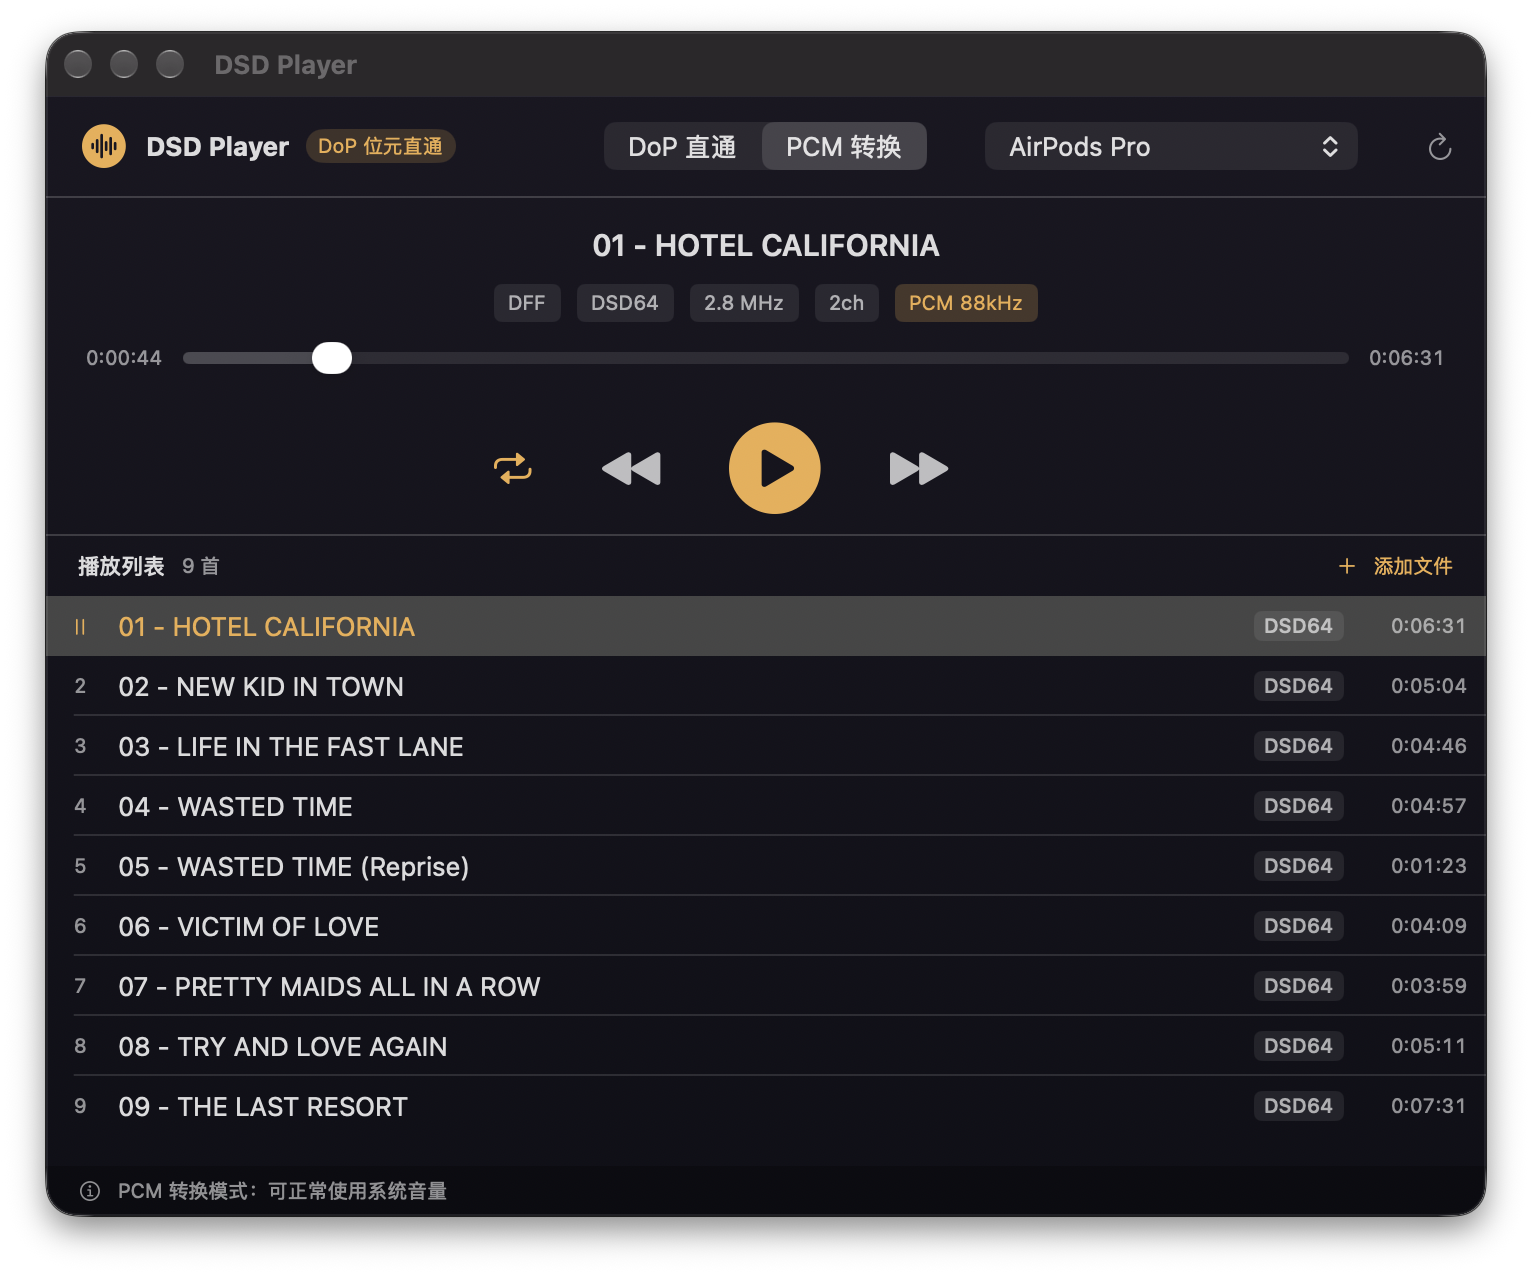
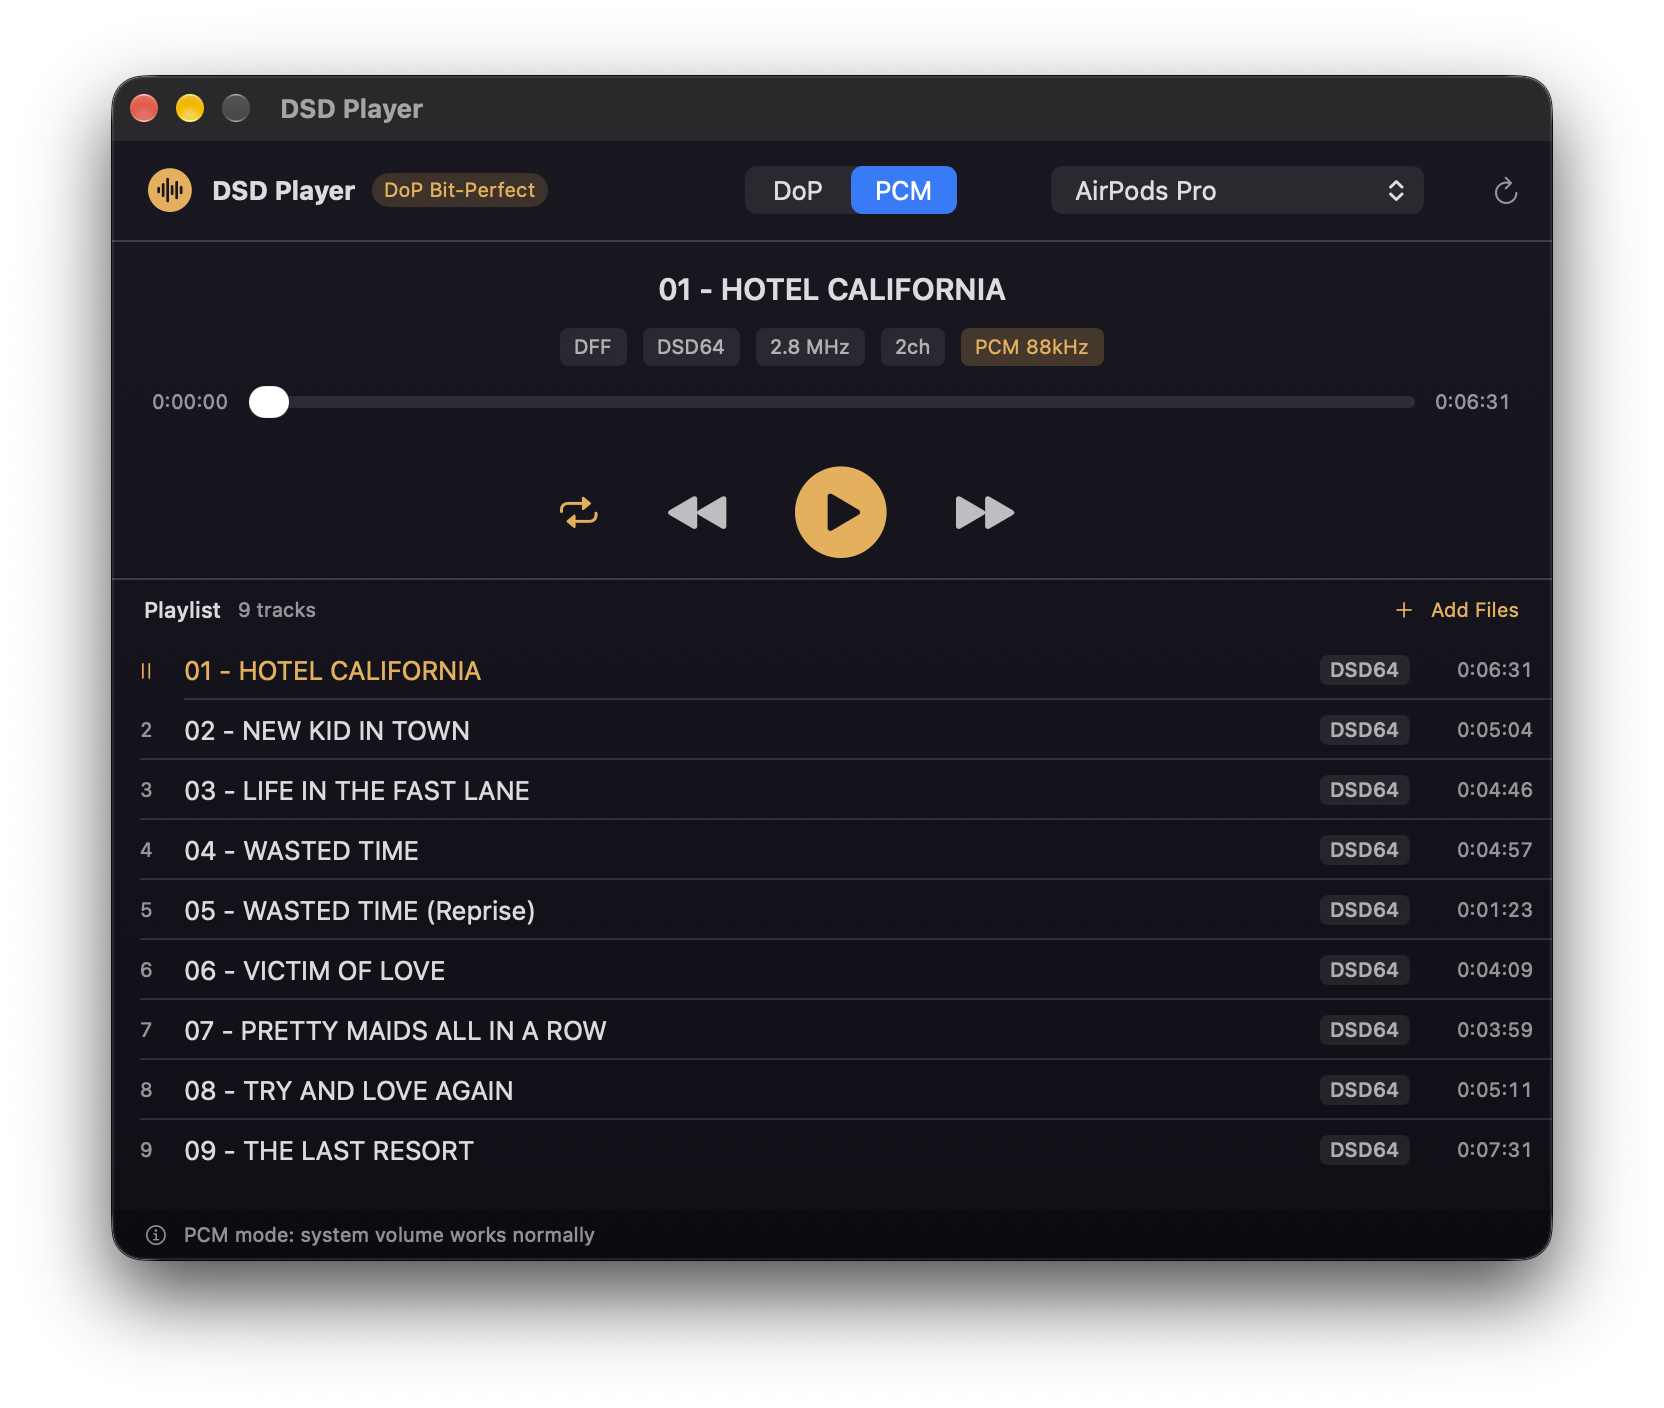
界面英文化，README 截图更新为英文界面

diff --git a/Sources/DSDPlayer/DSDPlayerApp.swift b/Sources/DSDPlayer/DSDPlayerApp.swift
@@ -21,10 +21,10 @@ enum PlayMode: Int, CaseIterable {
     }
     var label: String {
         switch self {
-        case .sequential: return "顺序播放"
-        case .loopAll: return "列表循环"
-        case .loopOne: return "单曲循环"
-        case .shuffle: return "随机播放"
+        case .sequential: return "Sequential"
+        case .loopAll: return "Loop All"
+        case .loopOne: return "Repeat One"
+        case .shuffle: return "Shuffle"
         }
     }
     func next() -> PlayMode {
@@ -106,7 +106,7 @@ final class PlayerModel: ObservableObject {
         }
         playlist = items
         if missing > 0 {
-            statusMessage = "\(missing) 个文件已移动或删除，未恢复"
+            statusMessage = "\(missing) file(s) moved or deleted, not restored"
         }
         if let idx = saved.currentIndex, playlist.indices.contains(idx) {
             load(at: idx)
@@ -246,7 +246,7 @@ final class PlayerModel: ObservableObject {
         let dffType = UTType(filenameExtension: "dff") ?? .data
         panel.allowedContentTypes = [dsfType, dffType]
         panel.allowsMultipleSelection = true
-        panel.message = "选择 DSD 音频文件 (.dsf / .dff)，可多选"
+        panel.message = "Choose DSD audio files (.dsf / .dff) — multiple selection allowed"
         guard panel.runModal() == .OK else { return }
         add(urls: panel.urls)
     }
@@ -284,7 +284,7 @@ final class PlayerModel: ObservableObject {
         }
         playlist.append(contentsOf: added)
         if !failures.isEmpty {
-            statusMessage = "无法解析: \(failures.joined(separator: ", "))"
+            statusMessage = "Cannot parse: \(failures.joined(separator: ", "))"
         }
         // 首个文件加入后自动加载（不自动播放）
         if currentIndex == nil, let first = added.first,
@@ -327,7 +327,7 @@ final class PlayerModel: ObservableObject {
 
     func play(at index: Int) {
         guard let dev = selectedDevice else {
-            statusMessage = "请选择输出设备"
+            statusMessage = "Select an output device"
             return
         }
         load(at: index)
@@ -474,7 +474,7 @@ struct ContentView: View {
                 .foregroundStyle(accent)
             Text("DSD Player")
                 .font(.headline)
-            Text("DoP 位元直通")
+            Text("DoP Bit-Perfect")
                 .font(.caption)
                 .padding(.horizontal, 6).padding(.vertical, 2)
                 .background(accent.opacity(0.18))
@@ -484,13 +484,13 @@ struct ContentView: View {
             Picker("", selection: Binding(
                 get: { model.outputMode },
                 set: { model.setOutputMode($0) })) {
-                Text("DoP 直通").tag(OutputMode.dop)
-                Text("PCM 转换").tag(OutputMode.pcm)
+                Text("DoP").tag(OutputMode.dop)
+                Text("PCM").tag(OutputMode.pcm)
             }
             .labelsHidden()
             .pickerStyle(.segmented)
-            .frame(width: 150)
-            .help("DoP：位元直通给支持 DoP 的 DAC；PCM：转成高采样率 PCM，任意设备可用")
+            .frame(width: 130)
+            .help("DoP: bit-perfect to DoP-capable DACs; PCM: convert to hi-res PCM, works on any device")
             Picker("", selection: $model.selectedDevice) {
                 ForEach(model.devices) { dev in
                     Text(dev.name + (dev.isUSB ? " ⚡" : "")).tag(Optional(dev))
@@ -502,7 +502,7 @@ struct ContentView: View {
                 Image(systemName: "arrow.clockwise")
             }
             .buttonStyle(.borderless)
-            .help("刷新设备列表")
+            .help("Refresh device list")
         }
         .padding(.horizontal, 16).padding(.vertical, 12)
     }
@@ -510,7 +510,7 @@ struct ContentView: View {
     // 当前曲目信息
     private var nowPlaying: some View {
         VStack(spacing: 10) {
-            Text(model.currentItem?.title ?? "未加载曲目")
+            Text(model.currentItem?.title ?? "No Track Loaded")
                 .font(.title3.weight(.semibold))
                 .lineLimit(1).truncationMode(.middle)
                 .foregroundStyle(model.currentItem == nil ? .secondary : .primary)
@@ -527,7 +527,7 @@ struct ContentView: View {
                           highlight: true)
                 }
             } else {
-                Text("添加 .dsf / .dff 文件开始播放")
+                Text("Add .dsf / .dff files to start playing")
                     .font(.caption).foregroundStyle(.secondary)
             }
 
@@ -560,7 +560,7 @@ struct ContentView: View {
                             help: model.playMode.label) {
                 model.playMode = model.playMode.next()
             }
-            transportButton("backward.fill", size: 22, help: "上一首 (⌘←)") { model.previous() }
+            transportButton("backward.fill", size: 22, help: "Previous (⌘←)") { model.previous() }
                 .keyboardShortcut(.leftArrow, modifiers: .command)
             Button { model.togglePlay() } label: {
                 Image(systemName: model.state == .playing ? "pause.circle.fill" : "play.circle.fill")
@@ -570,7 +570,7 @@ struct ContentView: View {
             .buttonStyle(.borderless)
             .disabled(model.playlist.isEmpty)
             .keyboardShortcut(.space, modifiers: [])
-            transportButton("forward.fill", size: 22, help: "下一首 (⌘→)") { model.next() }
+            transportButton("forward.fill", size: 22, help: "Next (⌘→)") { model.next() }
                 .keyboardShortcut(.rightArrow, modifiers: .command)
             // 占位平衡布局
             Image(systemName: model.playMode.icon)
@@ -599,13 +599,13 @@ struct ContentView: View {
     private var playlistView: some View {
         VStack(spacing: 0) {
             HStack {
-                Text("播放列表")
+                Text("Playlist")
                     .font(.subheadline.weight(.medium))
-                Text("\(model.playlist.count) 首")
+                Text("\(model.playlist.count) tracks")
                     .font(.caption).foregroundStyle(.secondary)
                 Spacer()
                 Button { model.addFiles() } label: {
-                    Label("添加文件", systemImage: "plus")
+                    Label("Add Files", systemImage: "plus")
                         .font(.caption)
                 }
                 .buttonStyle(.borderless)
@@ -618,7 +618,7 @@ struct ContentView: View {
                     Image(systemName: "music.note.list")
                         .font(.system(size: 30))
                         .foregroundStyle(.secondary)
-                    Text("拖入文件或文件夹，或点击「添加文件」")
+                    Text("Drop files or folders here, or click Add Files")
                         .font(.caption).foregroundStyle(.secondary)
                 }
                 .frame(maxWidth: .infinity, maxHeight: .infinity)
@@ -628,7 +628,7 @@ struct ContentView: View {
                         playlistRow(idx: idx, item: item)
                             .tag(item.id)
                             .contextMenu {
-                                Button("移除") {
+                                Button("Remove") {
                                     if let i = model.playlist.firstIndex(of: item) {
                                         model.remove(at: IndexSet(integer: i))
                                     }
@@ -692,14 +692,14 @@ struct ContentView: View {
             } else if !model.deviceSupportsCarrier {
                 Image(systemName: "exclamationmark.triangle.fill")
                     .foregroundStyle(.orange)
-                Text("该设备可能不支持所需的 DoP 载波采样率")
+                Text("This device may not support the required DoP carrier rate")
                     .foregroundStyle(.orange)
             } else {
                 Image(systemName: "info.circle")
                     .foregroundStyle(.secondary)
                 Text(model.outputMode == .dop
-                     ? "播放期间请勿调节系统音量（会破坏 DoP 位元），请用 DAC/功放调音量"
-                     : "PCM 转换模式：可正常使用系统音量")
+                     ? "DoP is bit-perfect: don't change system volume while playing — use DAC/amp volume"
+                     : "PCM mode: system volume works normally")
                     .foregroundStyle(.secondary)
             }
             Spacer()

diff --git a/Sources/DSDPlayer/PlaybackEngine.swift b/Sources/DSDPlayer/PlaybackEngine.swift
@@ -152,7 +152,7 @@ final class PlaybackEngine: @unchecked Sendable {
         }
 
         let err = AudioOutputUnitStart(audioUnit!)
-        guard err == noErr else { throw DSDError.corruptFile("启动音频输出失败 (\(err))") }
+        guard err == noErr else { throw DSDError.corruptFile("Failed to start audio output (\(err))") }
         state = .playing
     }
 
@@ -277,12 +277,12 @@ final class PlaybackEngine: @unchecked Sendable {
             componentManufacturer: kAudioUnitManufacturer_Apple,
             componentFlags: 0, componentFlagsMask: 0)
         guard let comp = AudioComponentFindNext(nil, &desc) else {
-            throw DSDError.corruptFile("找不到音频输出组件")
+            throw DSDError.corruptFile("Audio output component not found")
         }
         var au: AudioUnit?
         var err = AudioComponentInstanceNew(comp, &au)
         guard err == noErr, let unit = au else {
-            throw DSDError.corruptFile("创建音频单元失败 (\(err))")
+            throw DSDError.corruptFile("Failed to create audio unit (\(err))")
         }
 
         var dev = device
@@ -291,7 +291,7 @@ final class PlaybackEngine: @unchecked Sendable {
                                    UInt32(MemoryLayout<AudioDeviceID>.size))
         guard err == noErr else {
             AudioComponentInstanceDispose(unit)
-            throw DSDError.corruptFile("绑定输出设备失败 (\(err))")
+            throw DSDError.corruptFile("Failed to bind output device (\(err))")
         }
 
         // 应用侧格式：交错 Int32，24-bit DoP 左对齐进 32-bit 容器
@@ -310,7 +310,7 @@ final class PlaybackEngine: @unchecked Sendable {
                                    UInt32(MemoryLayout<AudioStreamBasicDescription>.size))
         guard err == noErr else {
             AudioComponentInstanceDispose(unit)
-            throw DSDError.corruptFile("设置输出格式失败 (\(err))")
+            throw DSDError.corruptFile("Failed to set output format (\(err))")
         }
 
         var callback = AURenderCallbackStruct(
@@ -321,13 +321,13 @@ final class PlaybackEngine: @unchecked Sendable {
                                    UInt32(MemoryLayout<AURenderCallbackStruct>.size))
         guard err == noErr else {
             AudioComponentInstanceDispose(unit)
-            throw DSDError.corruptFile("注册渲染回调失败 (\(err))")
+            throw DSDError.corruptFile("Failed to register render callback (\(err))")
         }
 
         err = AudioUnitInitialize(unit)
         guard err == noErr else {
             AudioComponentInstanceDispose(unit)
-            throw DSDError.corruptFile("初始化音频单元失败 (\(err))")
+            throw DSDError.corruptFile("Failed to initialize audio unit (\(err))")
         }
         audioUnit = unit
     }
@@ -472,7 +472,7 @@ final class PlaybackEngine: @unchecked Sendable {
             } catch {
                 feederLock.unlock()
                 let cb = onError
-                DispatchQueue.main.async { cb?("读取文件失败: \(error.localizedDescription)") }
+                DispatchQueue.main.async { cb?("Failed to read file: \(error.localizedDescription)") }
                 return
             }
         }

diff --git a/Sources/DSDPlayer/DSDFile.swift b/Sources/DSDPlayer/DSDFile.swift
@@ -9,11 +9,11 @@ enum DSDError: Error, LocalizedError {
 
     var errorDescription: String? {
         switch self {
-        case .unsupportedFormat(let s): return "不支持的文件格式: \(s)"
-        case .corruptFile(let s): return "文件损坏或无法解析: \(s)"
-        case .unsupportedChannels(let n): return "暂不支持 \(n) 声道（仅支持单声道/立体声）"
-        case .unsupportedSampleRate(let r): return "不支持的 DSD 采样率: \(r) Hz"
-        case .dstCompressed: return "暂不支持 DST 压缩的 DFF 文件"
+        case .unsupportedFormat(let s): return "Unsupported file format: \(s)"
+        case .corruptFile(let s): return "File is corrupt or unparseable: \(s)"
+        case .unsupportedChannels(let n): return "\(n) channels not supported (mono/stereo only)"
+        case .unsupportedSampleRate(let r): return "Unsupported DSD sample rate: \(r) Hz"
+        case .dstCompressed: return "DST-compressed DFF files are not supported"
         }
     }
 }

diff --git a/Sources/DSDPlayer/AudioDevice.swift b/Sources/DSDPlayer/AudioDevice.swift
@@ -19,9 +19,9 @@ enum AudioDeviceError: Error, LocalizedError {
     var errorDescription: String? {
         switch self {
         case .noSupportedFormat(let r):
-            return "所选设备不支持 \(Int(r)) Hz / 24bit 以上的输出格式，无法承载该 DoP 流"
+            return "Device doesn't support \(Int(r)) Hz / 24-bit+ output required for this DoP stream"
         case .setRateFailed(let s):
-            return "设置设备采样率失败 (OSStatus \(s))"
+            return "Failed to set device sample rate (OSStatus \(s))"
         }
     }
 }
@@ -85,7 +85,7 @@ enum AudioDeviceManager {
         let status = withUnsafeMutablePointer(to: &name) { ptr in
             AudioObjectGetPropertyData(id, &addr, 0, nil, &size, ptr)
         }
-        guard status == noErr else { return "设备 \(id)" }
+        guard status == noErr else { return "Device \(id)" }
         return name as String
     }
 

diff --git a/README.md b/README.md
@@ -32,11 +32,11 @@ swift test           # run the unit tests (10 tests)
 
 ## Usage
 
-1. Drag DSD files or an album folder into the window (or click **添加文件 / Add Files**)
+1. Drag DSD files or an album folder into the window (or click **Add Files**)
 2. Pick the output device (USB DACs are auto-preferred and marked with ⚡)
 3. Choose the output mode:
-   - **DoP 直通 (DoP passthrough)** — bit-perfect DSD to capable DACs. The DAC display should switch to DSD. *Do not touch the system volume in this mode* — any sample manipulation breaks DoP markers; use the DAC/amp volume instead
-   - **PCM 转换 (PCM conversion)** — for built-in speakers / Bluetooth / anything else; system volume works normally
+   - **DoP** — bit-perfect DSD to capable DACs. The DAC display should switch to DSD. *Do not touch the system volume in this mode* — any sample manipulation breaks DoP markers; use the DAC/amp volume instead
+   - **PCM** — for built-in speakers / Bluetooth / anything else; system volume works normally
 4. Double-click a track to play
 
 The playlist, current track, play mode, and output mode are restored on next launch.
